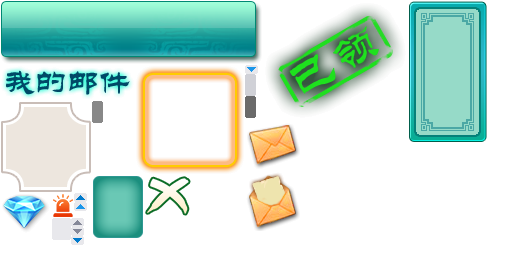
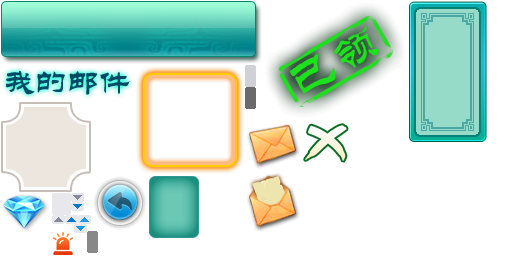
add a 'back' button to those views whose 'close' button will be cover by wechat's control buttons

diff --git a/assets/Script/modules/gameb/RoomRuleView.ts b/assets/Script/modules/gameb/RoomRuleView.ts
@@ -14,48 +14,48 @@ export class RoomRuleView extends cc.Component {
         const roomConfigJSON = <{ [key: string]: boolean | number | string }>JSON.parse(roomConfigStr);
         Logger.debug("roomConfigJSON = ", roomConfigJSON);
 
-        const payType = <number>roomConfigJSON[`payType`];
-        const lianZhuangJiaFen = <boolean>roomConfigJSON[`doubleScoreWhenContinuousBanker`];
-        const ziMoJiaFen = <boolean>roomConfigJSON[`doubleScoreWhenSelfDrawn`];
-        const jinYuanZi = <boolean>roomConfigJSON[`doubleScoreWhenZuoYuanZi`];
-        const fengDingType = <number>roomConfigJSON[`fengDingType`];
-        const dunziPointType = <number>roomConfigJSON[`dunziPointType`];
-        const handNum = <number>roomConfigJSON[`handNum`];
+        // const payType = <number>roomConfigJSON[`payType`];
+        // const lianZhuangJiaFen = <boolean>roomConfigJSON[`doubleScoreWhenContinuousBanker`];
+        // const ziMoJiaFen = <boolean>roomConfigJSON[`doubleScoreWhenSelfDrawn`];
+        // const jinYuanZi = <boolean>roomConfigJSON[`doubleScoreWhenZuoYuanZi`];
+        // const fengDingType = <number>roomConfigJSON[`fengDingType`];
+        // const dunziPointType = <number>roomConfigJSON[`dunziPointType`];
+        // const handNum = <number>roomConfigJSON[`handNum`];
 
-        if (payType !== undefined || payType !== null) {
-            this.view.getController("payCtrl").selectedIndex = payType;
-        }
+        // if (payType !== undefined || payType !== null) {
+        //     this.view.getController("payCtrl").selectedIndex = payType;
+        // }
 
-        if (fengDingType !== undefined || fengDingType !== null) {
-            this.view.getController("fengdingCtrl").selectedIndex = fengDingType;
-        }
+        // if (fengDingType !== undefined || fengDingType !== null) {
+        //     this.view.getController("fengdingCtrl").selectedIndex = fengDingType;
+        // }
 
-        if (dunziPointType !== undefined || dunziPointType !== null) {
-            this.view.getController("dunziCtrl").selectedIndex = dunziPointType;
-        }
+        // if (dunziPointType !== undefined || dunziPointType !== null) {
+        //     this.view.getController("dunziCtrl").selectedIndex = dunziPointType;
+        // }
 
-        if (handNum !== undefined || handNum !== null) {
-            let index = 0;
-            if (handNum === 8) {
-                index = 1;
-            } else if (handNum === 16) {
-                index = 2;
-            }
+        // if (handNum !== undefined || handNum !== null) {
+        //     let index = 0;
+        //     if (handNum === 8) {
+        //         index = 1;
+        //     } else if (handNum === 16) {
+        //         index = 2;
+        //     }
 
-            this.view.getController("roundCtrl").selectedIndex = index;
-        }
+        //     this.view.getController("roundCtrl").selectedIndex = index;
+        // }
 
-        if (lianZhuangJiaFen !== undefined || lianZhuangJiaFen !== null) {
-            this.view.getChild("lzjf").asButton.selected = lianZhuangJiaFen;
-        }
+        // if (lianZhuangJiaFen !== undefined || lianZhuangJiaFen !== null) {
+        //     this.view.getChild("lzjf").asButton.selected = lianZhuangJiaFen;
+        // }
 
-        if (ziMoJiaFen !== undefined || ziMoJiaFen !== null) {
-            this.view.getChild("zmjf").asButton.selected = ziMoJiaFen;
-        }
+        // if (ziMoJiaFen !== undefined || ziMoJiaFen !== null) {
+        //     this.view.getChild("zmjf").asButton.selected = ziMoJiaFen;
+        // }
 
-        if (jinYuanZi !== undefined || jinYuanZi !== null) {
-            this.view.getChild("jyz").asButton.selected = jinYuanZi;
-        }
+        // if (jinYuanZi !== undefined || jinYuanZi !== null) {
+        //     this.view.getChild("jyz").asButton.selected = jinYuanZi;
+        // }
 
         if (this.view !== null) {
             // this.room = room;
@@ -90,25 +90,29 @@ export class RoomRuleView extends cc.Component {
 
         const closeBtn = this.view.getChild("closeBtn");
         closeBtn.onClick(this.onCloseClick, this);
+        closeBtn.onClick(this.onCloseClick, this);
+        const backBtn = this.view.getChild("back");
+        if (backBtn !== null) {
+            backBtn.onClick(this.onCloseClick, this);
+        }
+        // this.view.getChild("ownerPay").asButton.getChild("title").text = "房主支付";
+        // this.view.getChild("aaPay").asButton.getChild("title").text = "平摊支付";
 
-        this.view.getChild("ownerPay").asButton.getChild("title").text = "房主支付";
-        this.view.getChild("aaPay").asButton.getChild("title").text = "平摊支付";
+        // this.view.getChild("zmjf").asButton.getChild("title").text = "自摸加分";
+        // this.view.getChild("lzjf").asButton.getChild("title").text = "连庄加分";
+        // this.view.getChild("jyz").asButton.getChild("title").text = "进院子";
 
-        this.view.getChild("zmjf").asButton.getChild("title").text = "自摸加分";
-        this.view.getChild("lzjf").asButton.getChild("title").text = "连庄加分";
-        this.view.getChild("jyz").asButton.getChild("title").text = "进院子";
+        // this.view.getChild("fengding1").asButton.getChild("title").text = "20/40";
+        // this.view.getChild("fengding2").asButton.getChild("title").text = "30/60";
+        // this.view.getChild("fengding3").asButton.getChild("title").text = "50/100/150";
+        // this.view.getChild("fengding4").asButton.getChild("title").text = "100/200/300";
 
-        this.view.getChild("fengding1").asButton.getChild("title").text = "20/40";
-        this.view.getChild("fengding2").asButton.getChild("title").text = "30/60";
-        this.view.getChild("fengding3").asButton.getChild("title").text = "50/100/150";
-        this.view.getChild("fengding4").asButton.getChild("title").text = "100/200/300";
+        // this.view.getChild("dunzi1").asButton.getChild("title").text = "1分/2分";
+        // this.view.getChild("dunzi2").asButton.getChild("title").text = "10分/20分/30分";
 
-        this.view.getChild("dunzi1").asButton.getChild("title").text = "1分/2分";
-        this.view.getChild("dunzi2").asButton.getChild("title").text = "10分/20分/30分";
-
-        this.view.getChild("round1").asButton.getChild("title").text = "4局";
-        this.view.getChild("round2").asButton.getChild("title").text = "8局";
-        this.view.getChild("round3").asButton.getChild("title").text = "16局";
+        // this.view.getChild("round1").asButton.getChild("title").text = "4局";
+        // this.view.getChild("round2").asButton.getChild("title").text = "8局";
+        // this.view.getChild("round3").asButton.getChild("title").text = "16局";
     }
 
 }

diff --git a/assets/Script/modules/lobby/views/EmailView.ts b/assets/Script/modules/lobby/views/EmailView.ts
@@ -71,6 +71,10 @@ export class EmailView extends cc.Component {
     private initView(): void {
         const closeBtn = this.view.getChild("closeBtn");
         closeBtn.onClick(this.onCloseClick, this);
+        const backBtn = this.view.getChild("back");
+        if (backBtn !== null) {
+            backBtn.onClick(this.onCloseClick, this);
+        }
 
         this.emailContent = this.view.getChild("textComponent").asCom.getChild("text");
         this.emailTitle = this.view.getChild("title");

diff --git a/assets/Script/modules/lobby/views/NewRoomView.ts b/assets/Script/modules/lobby/views/NewRoomView.ts
@@ -123,6 +123,10 @@ export class NewRoomView extends cc.Component {
 
         const closeBtn = this.view.getChild("closeBtn");
         closeBtn.onClick(this.onCloseClick, this);
+        const backBtn = this.view.getChild("back");
+        if (backBtn !== null) {
+            backBtn.onClick(this.onCloseClick, this);
+        }
 
         const list = this.view.getChild("gamelist").asList;
         list.on(fgui.Event.CLICK_ITEM, this.onListItemClicked, this);
